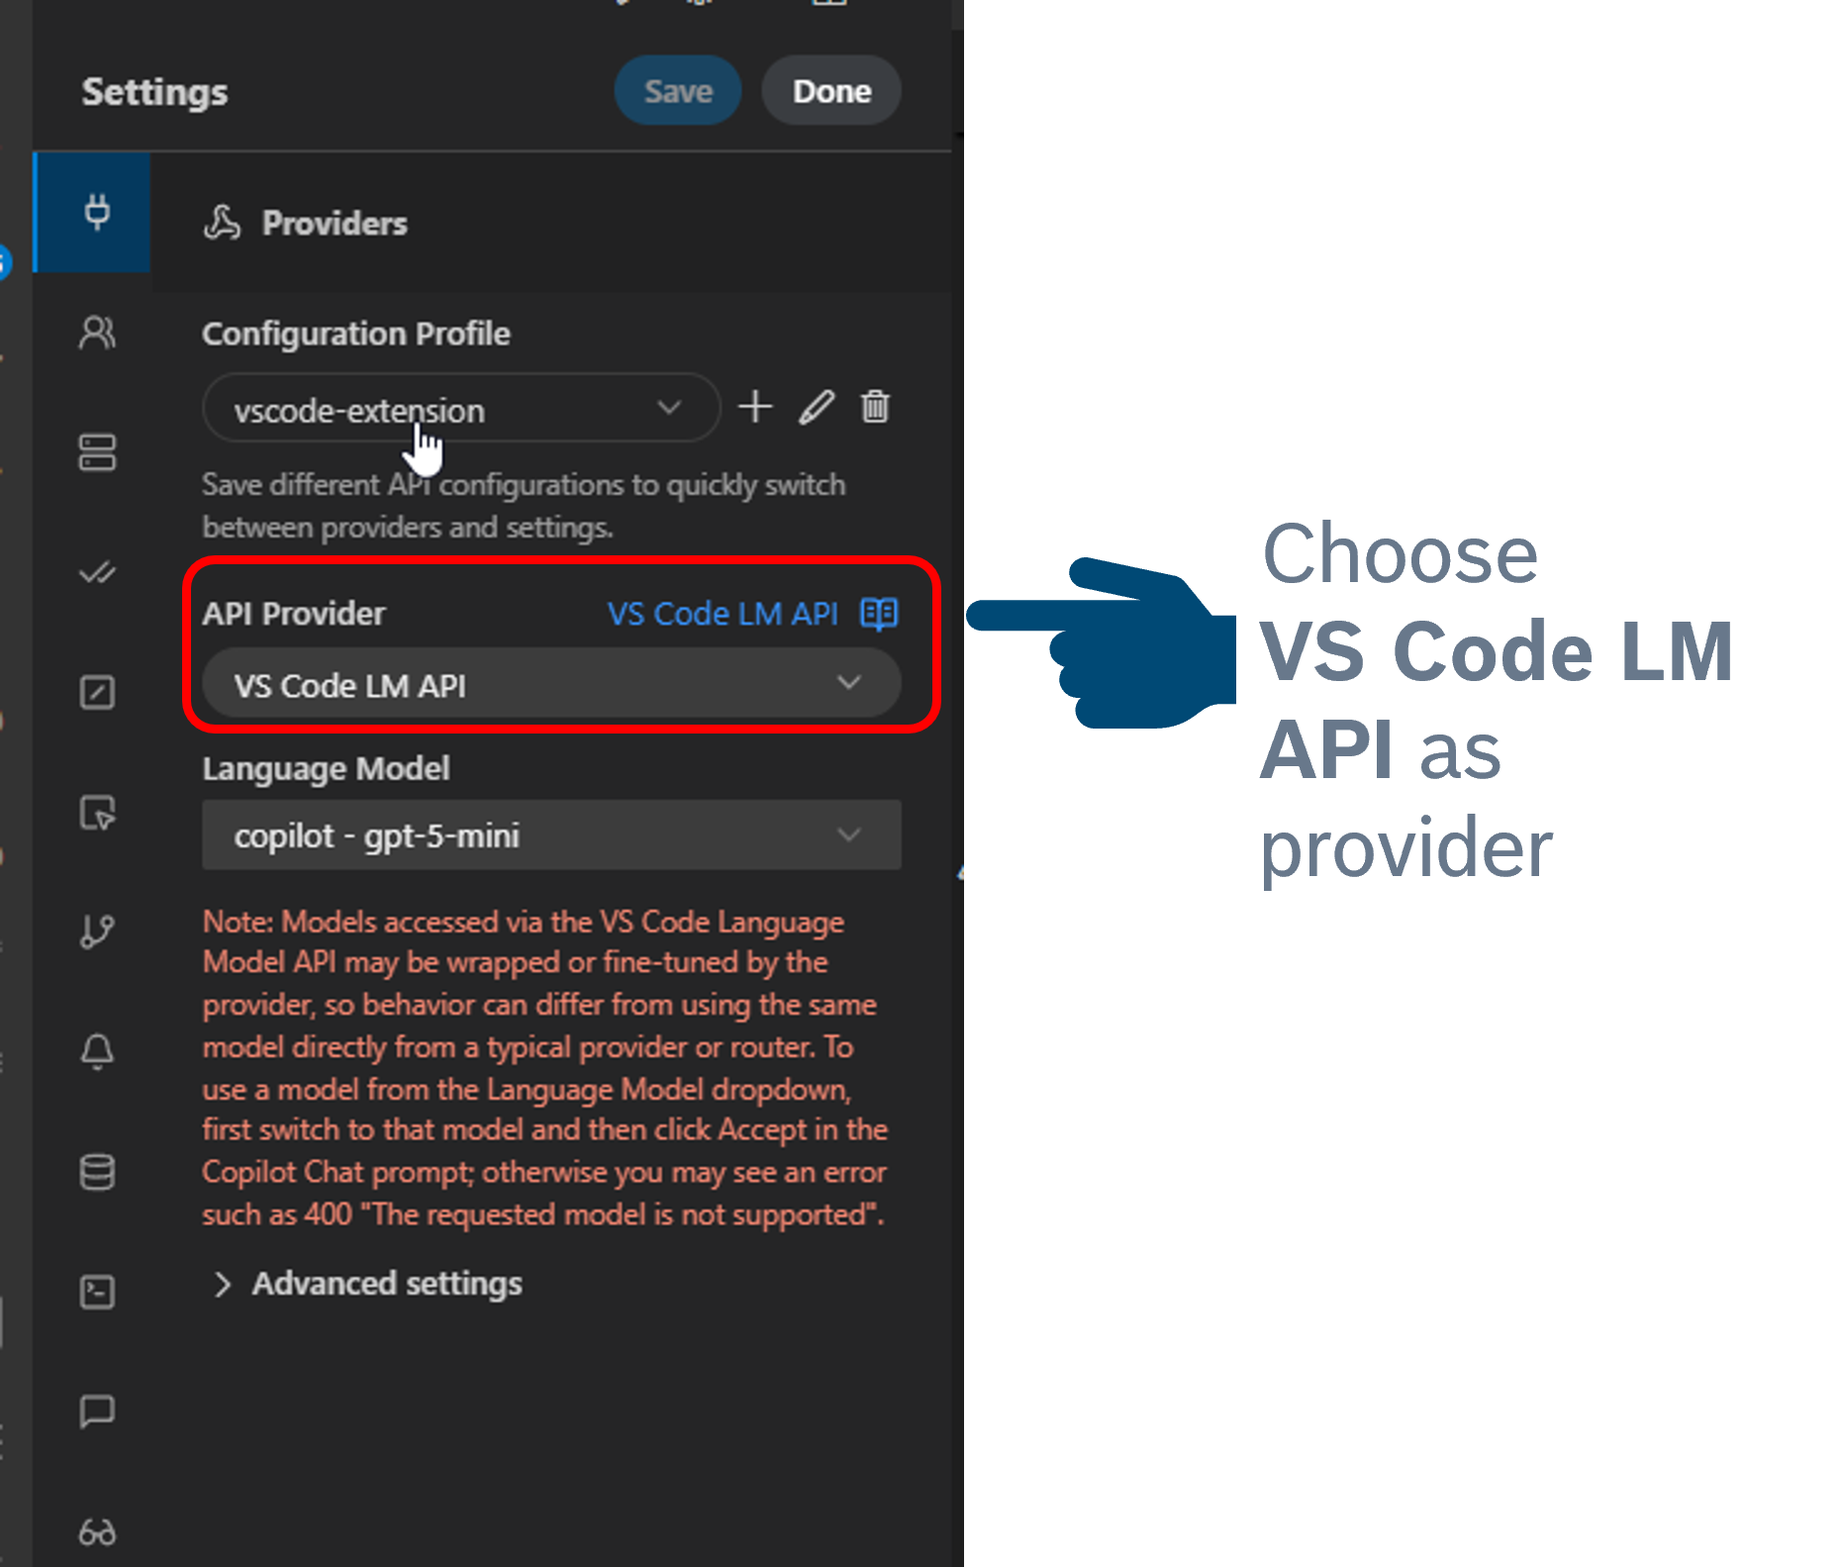
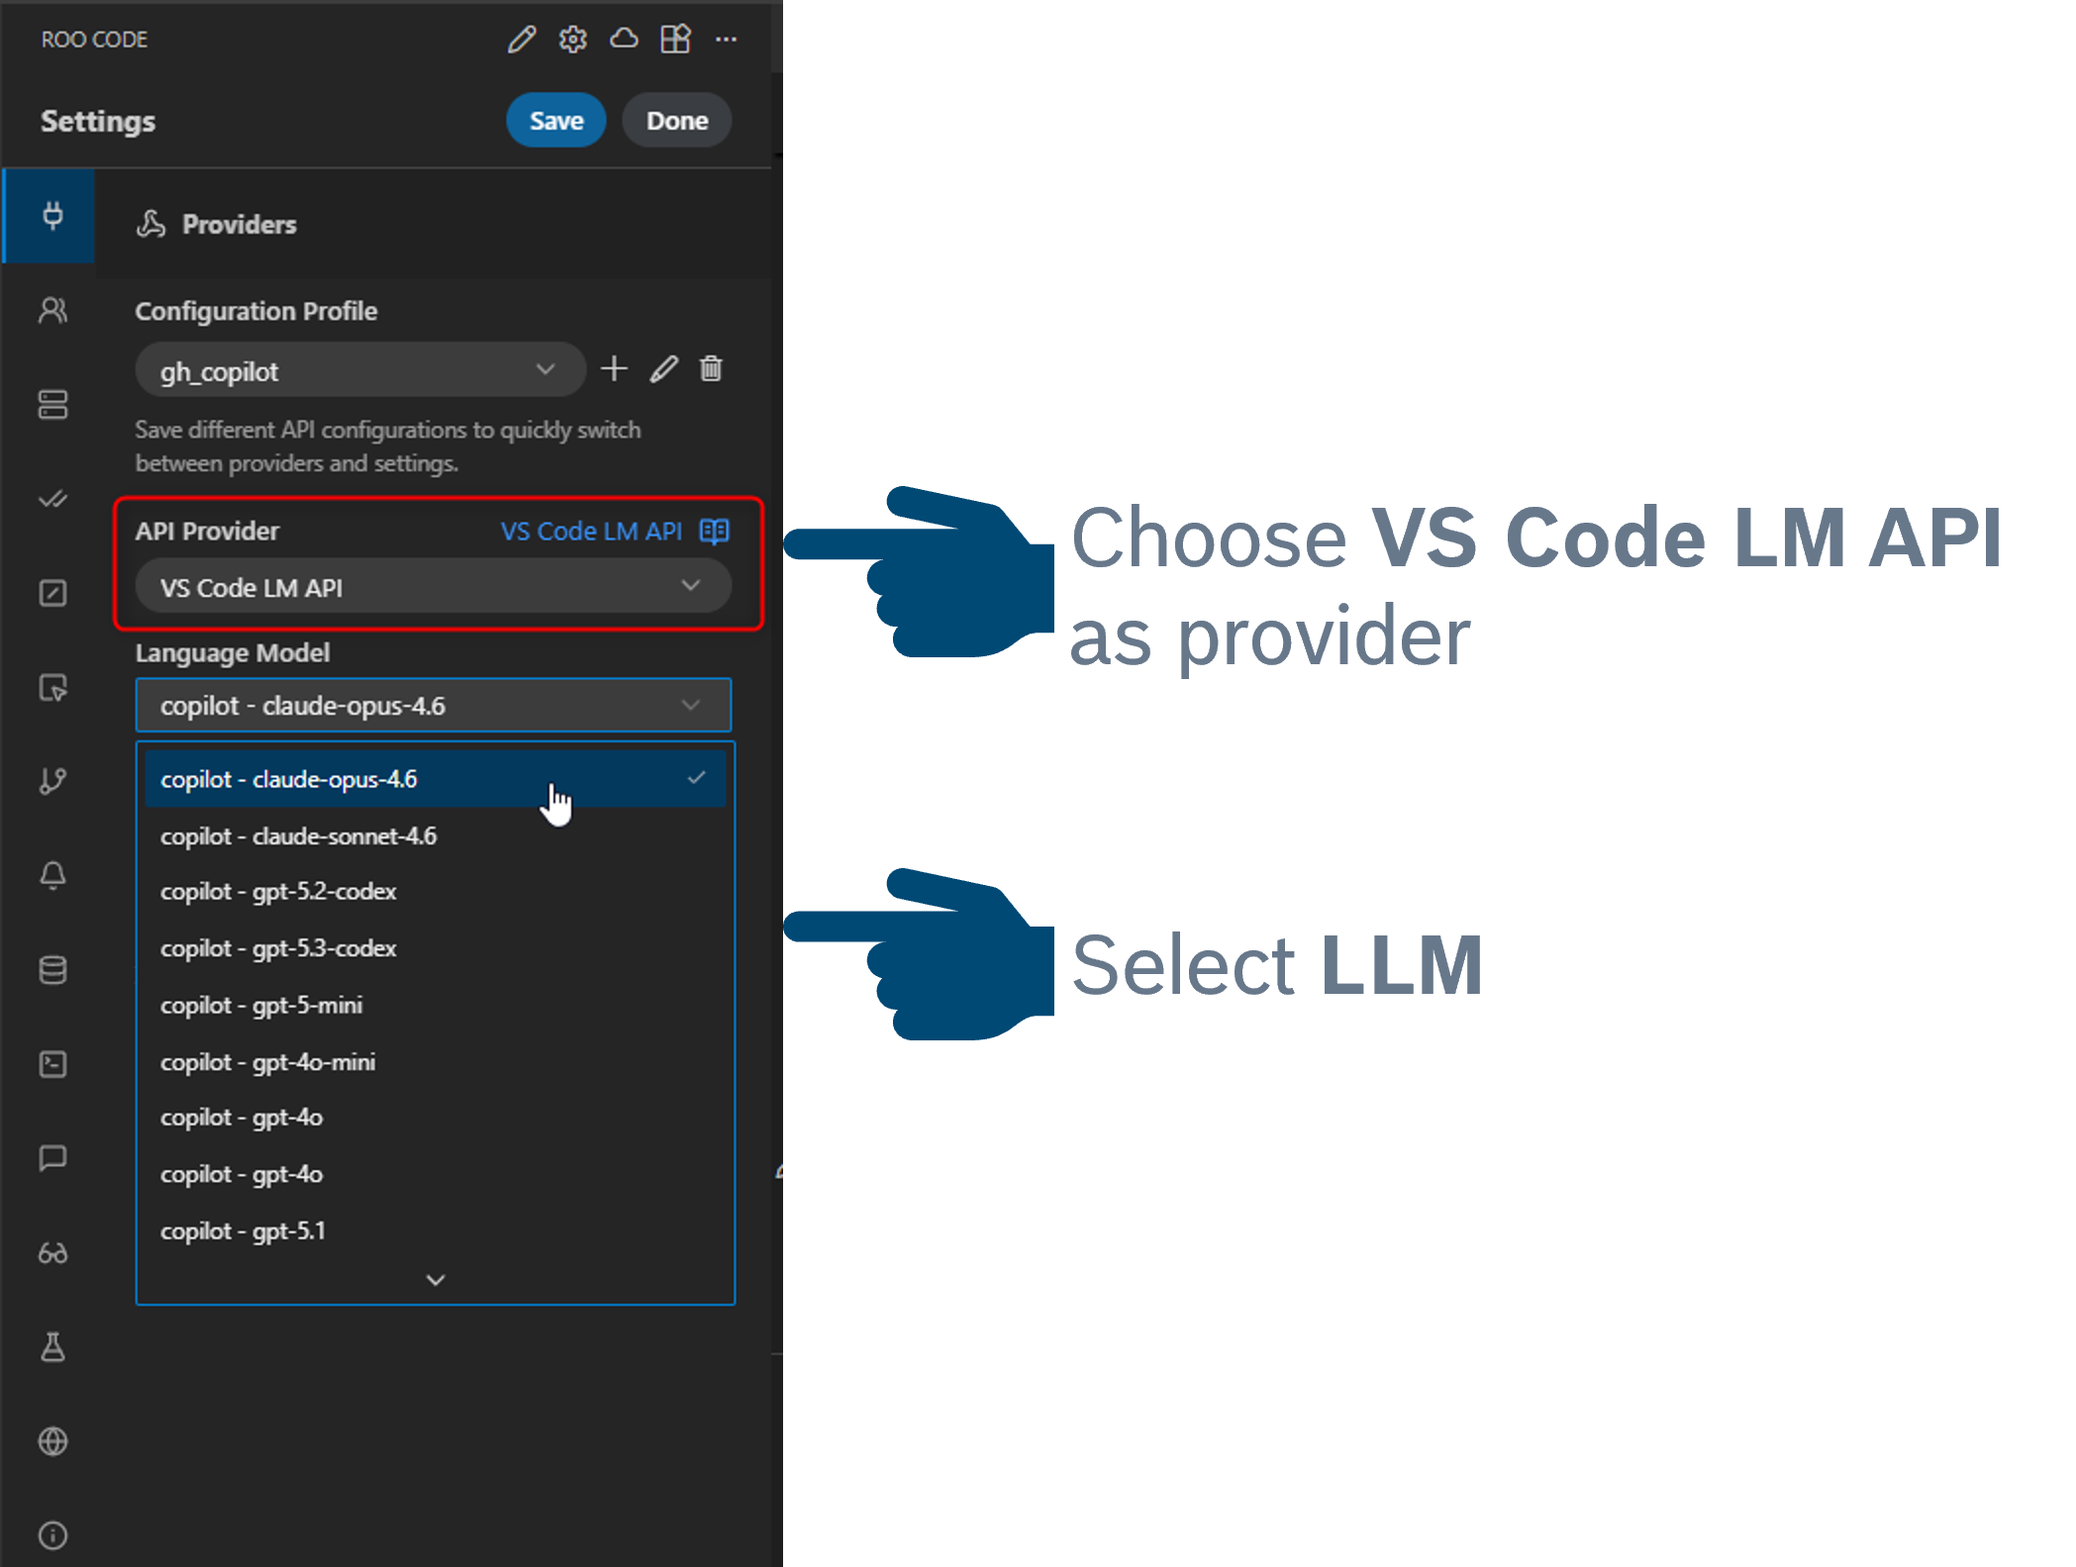
update RooCode document to add more detail about Profile and LLM configurations

diff --git a/book/include/roocode/configuration_bios.tex b/book/include/roocode/configuration_bios.tex
@@ -32,11 +32,116 @@ Steps to configure Roo Code Extension to use GitHub Copilot:
    \item In the \textbf{API Provider} option, select \textbf{VS Code LM API}
       as the provider.
    \item Choose the available model within the dropdown menu.
+\begin{boxhint}{The list of models may change over time}
+The list of LLM models may be changed dynamically based on the models supported
+by Bosch GitHub Copilot at the moment.
+\end{boxhint}
    \item Click \textbf{Done}.
 \end{enumerate}
 
 Refer to the images below for guidance:
 
-\includegraphics{./include/graphics/roocode/RooCodeUseLLMProviders.png}
+\begin{itemize}
+   \item Welcome screen for first time use:
 
-\includegraphics{./include/graphics/roocode/GitHubCopilotLLM.png}
+         \includegraphics{./include/graphics/roocode/GitHubCopilotLLM_GetStart.png}
+
+   \item Settings screen for already configured users:
+
+         \includegraphics{./include/graphics/roocode/GitHubCopilotLLM.png}
+
+\end{itemize}
+
+\section{Which LLM to Use}
+
+As configuration in previous chapters, Roo Code uses \textbf{Bosch GitHub Copilot}
+as its AI backend.
+
+Bosch GitHub Copilot provides access to a range of powerful LLMs, each with
+different strengths and optimal use cases.
+
+Simply pick the model that fits your task best — all models are covered by the
+Bosch subscription, so just focus on choosing the right one for the job.
+
+\subsection{Available Models for Agentic Tasks}
+
+The following models are available via Bosch GitHub Copilot (\textbf{February 2026}),
+ordered by their suitability for agentic development:
+
+\begin{table}[h!]
+\centering
+\begin{tabular}{lllp{5.5cm}}
+   \toprule
+   \textbf{Model} & \textbf{Provider} & \textbf{Speed} & \textbf{Best for} \\
+   \midrule
+   Claude Opus 4.6           & Anthropic & Medium    & Most complex agentic tasks, deep reasoning, architecture \\
+   Claude Opus 4.5           & Anthropic & Medium    & Complex agentic tasks, strong reasoning \\
+   Claude Opus 4.6 (fast)    & Anthropic & Fast      & High-accuracy agentic tasks at faster response times \\
+   GPT-5.3-Codex             & OpenAI    & Fast      & Cutting-edge code-focused agentic tasks, autonomous editing \\
+   GPT-5.2                   & OpenAI    & Fast      & Agentic tasks, excellent tool use and long context \\
+   GPT-5.2-Codex             & OpenAI    & Fast      & Code-focused agentic tasks, autonomous file editing \\
+   GPT-5.1                   & OpenAI    & Fast      & Agentic tasks, strong reasoning and tool use \\
+   GPT-5.1-Codex             & OpenAI    & Fast      & Code generation, autonomous agentic file editing \\
+   GPT-5.1-Codex-Max         & OpenAI    & Fast      & Code generation and multi-file refactoring \\
+   Claude Sonnet 4.6         & Anthropic & Fast      & Everyday agentic tasks, strong accuracy at high speed \\
+   Claude Sonnet 4.5         & Anthropic & Fast      & Everyday agentic tasks \\
+   Gemini 3.1 Pro            & Google    & Fast      & Agentic tasks, very large context windows \\
+   Gemini 3 Pro              & Google    & Fast      & Agentic tasks, large context windows \\
+   Grok Code Fast 1          & xAI       & Very fast & Code-focused tasks, fast iteration \\
+   \midrule
+   Claude Haiku 4.5          & Anthropic & Very fast & \textit{Simple tasks only — not recommended for agentic use} \\
+   GPT-5 mini                & OpenAI    & Very fast & \textit{Simple tasks only — not recommended for agentic use} \\
+   GPT-4.1                   & OpenAI    & Very fast & \textit{Simple tasks only — not recommended for agentic use} \\
+   \bottomrule
+\end{tabular}
+\caption{Bosch GitHub Copilot available models (February 2026), ordered by agentic suitability.}
+\label{tab:copilot-models}
+\end{table}
+
+\subsection{Recommended Model Selection}
+
+\begin{itemize}
+   \item \textbf{Maximum Accuracy} (complex architecture, deep multi-file
+      reasoning, autonomous debugging across large codebases):
+      Use \textit{Claude Opus 4.6} — the highest-accuracy model available
+      via Copilot (76.8\% on SWE-bench Verified). \textit{Claude Opus 4.5}
+      is a close alternative.
+   \item \textbf{High Accuracy + Speed} (demanding agentic tasks where response
+      time matters):
+      Use \textit{Claude Opus 4.6 (fast)} or \textit{GPT-5.3-Codex} —
+      near-Opus accuracy at significantly faster response times.
+   \item \textbf{Best Speed + Accuracy} (everyday agentic tasks, feature
+      implementation, test generation, refactoring):
+      Use \textit{GPT-5.2}, \textit{GPT-5.2-Codex}, \textit{GPT-5.1-Codex},
+      or \textit{Claude Sonnet 4.6} — these deliver strong accuracy
+      at fast response times.
+   \item \textbf{Simple / Read-only Tasks} (asking questions, explaining code,
+      quick lookups): \textit{GPT-4.1} or \textit{GPT-5 mini} respond
+      instantly and are sufficient for non-agentic interactions.
+\end{itemize}
+
+\begin{boxwarning}{Do not use mini or lightweight models for agentic tasks}
+Models such as \rcode{GPT-5 mini}, \rcode{GPT-4.1}, and
+\rcode{Claude Haiku 4.5} are optimized for instant responses on simple
+queries — \textbf{not} for the complex multi-step reasoning, multi-file
+editing, and tool use that agentic development requires.
+Use them only for simple, read-only interactions.
+\end{boxwarning}
+
+\begin{boxhint}{The model list changes over time}
+GitHub Copilot regularly adds, updates, and retires models.
+Always check the current list in the model dropdown within VS Code,
+or refer to the official documentation:
+\href{https://docs.github.com/en/copilot/using-github-copilot/ai-models/supported-ai-models-in-copilot}
+{Supported AI models in GitHub Copilot}.
+\end{boxhint}
+
+\begin{boxhint}{Not sure which model to pick? Ask an AI assistant}
+The ranking of models evolves as new versions are released.
+Use the following prompt with any AI assistant to get an up-to-date
+recommendation specifically for GitHub Copilot:
+
+\medskip
+\textit{"Which models available in GitHub Copilot are particularly suitable
+for agentic software development? Please provide a ranking."}
+\end{boxhint}

diff --git a/book/include/roocode/configuration_oss.tex b/book/include/roocode/configuration_oss.tex
@@ -62,7 +62,7 @@ Running local models requires significant RAM/GPU resources.
       \item Download and install Ollama from
          \href{https://ollama.com/download}{Download Ollama}
       \item Use Ollama CLI to pull a coding model:
-         \texttt{ollama pull deepseek-v3.1} or \texttt{ollama pull qwen3-coder}.
+         \rcode{ollama pull deepseek-v3.1} or \rcode{ollama pull qwen3-coder}.
          You can find other models provided by Ollama at
          \href{https://ollama.com/library}{Ollama Library}.
       \item Ensure Ollama and pulled models are running locally on your machine.
@@ -81,7 +81,7 @@ Steps to configure Roo Code with \textbf{Ollama}:
          Or click the \textbf{Settings (gear icon)} at the top of the Roo Code panel (Already configured).
    \item In the \textbf{API Provider} option, select \textbf{Ollama}
       as the provider.
-   \item Ensure the Base URL is set (usually \texttt{http://localhost:11434}).
+   \item Ensure the Base URL is set (usually \rcode{http://localhost:11434}).
    \item Choose the local model you pulled earlier.
    \item Click \textbf{Done}.
 \end{enumerate}
@@ -119,3 +119,81 @@ Steps to configure Roo Code with \textbf{GitHub}:
 Refer to the image below for guidance:
 
 \includegraphics{./include/graphics/roocode/GitHubCopilotLLM.png}
+
+\section{Which LLM to Use}
+
+Choosing the right LLM is \textbf{crucial} when working with Roo Code.
+Agentic software development — where the AI autonomously edits multiple files,
+executes terminal commands, reasons about test failures, and orchestrates complex
+tasks — is one of the most demanding use cases for any language model.
+
+\subsection{What Makes a Model Suitable for Agentic Development?}
+
+When choosing a model for Roo Code, prioritize models that score well on the
+following benchmarks:
+\begin{itemize}
+   \item \textbf{SWE-bench Verified:} Measures the ability to resolve
+      real-world GitHub issues autonomously — the closest benchmark to what
+      Roo Code does in practice.
+   \item \textbf{LiveCodeBench:} Evaluates coding performance on recent,
+      unseen problems, testing true generalization rather than memorization.
+   \item \textbf{Tool Use / Function Calling:} Essential for Roo Code to
+      reliably interact with your file system and terminal.
+   \item \textbf{Long Context Handling:} Large codebases require a model that
+      can maintain coherent reasoning over many thousands of tokens.
+\end{itemize}
+
+\subsection{LLM Selection Strategy}
+
+Based on current benchmarks (SWE-bench Verified and LiveBench, \textbf{February 2026}),
+the following models are leading for agentic software development:
+
+\begin{table}[h!]
+\centering
+\begin{tabular}{clllp{5cm}}
+   \toprule
+   \textbf{Rank} & \textbf{Model} & \textbf{Provider} &
+   \textbf{SWE-bench} & \textbf{Notes} \\
+   \midrule
+   1 & Claude 4.5 Opus  & Anthropic & 76.8\% & Top performer for complex agentic tasks \\
+   2 & Claude Opus 4.6  & Anthropic & 75.6\% & Strong reasoning and code generation \\
+   3 & GPT-5.2          & OpenAI    & 72.8\% & Excellent tool use and long-context handling \\
+   4 & Claude 4.5 Sonnet & Anthropic & 71.4\% & Best cost-to-performance ratio \\
+   5 & DeepSeek V3.2    & DeepSeek  & 70.0\% & Best open-weight option for local (Ollama) use \\
+   \midrule
+   \multicolumn{2}{l}{\textit{GPT-5 Mini (reference)}} & OpenAI & 56.2\% &
+      \textit{Mini model — not recommended} \\
+   \bottomrule
+\end{tabular}
+\caption{LLM ranking for agentic software development (SWE-bench Verified, February 2026)}
+\label{tab:llm-ranking}
+\end{table}
+
+\textbf{Recommended Strategy:}
+\begin{itemize}
+   \item \textbf{Complex Agentic Tasks} (refactoring, architecture, debugging,
+      multi-file generation): Use \textit{Claude 4.5 Opus}, \textit{Claude Opus 4.6},
+      or \textit{GPT-5.2}.
+   \item \textbf{Balanced Tasks} (feature implementation, test generation):
+      \textit{Claude 4.5 Sonnet} offers the best cost-to-capability balance.
+   \item \textbf{Private / Offline Tasks}: \textit{DeepSeek V3.2} via Ollama
+      is the strongest local option.
+\end{itemize}
+
+\begin{boxwarning}{Mini models are not suitable for agentic tasks}
+For reference, \rcode{GPT-5 Mini} scores only 56.2\% on SWE-bench Verified —
+more than 20 percentage points behind the top models.
+Mini models are optimized for speed and cost, not for the complex multi-step
+reasoning that agentic development requires.
+\end{boxwarning}
+
+\begin{boxhint}{The LLM landscape changes rapidly}
+New models are released frequently and rankings shift — the best model today
+may be superseded in just a few months.
+Rather than relying on a fixed recommendation in this document,
+ask an up-to-date AI assistant directly using the prompt below:
+
+\medskip
+\textit{"Which LLM models are particularly suitable for agentic software
+development? Please provide a ranking."}
+\end{boxhint}

diff --git a/book/include/roocode/ending_sections.tex b/book/include/roocode/ending_sections.tex
@@ -51,6 +51,110 @@ Roo Code uses specialized personas to optimize token usage and task accuracy.
       \end{itemize}
 \end{itemize}
 
+\section{Configuration Profile}
+
+Roo Code's \textbf{API Configuration Profiles} allow you to save and manage
+multiple named sets of LLM settings — each with its own provider, model,
+API key, and temperature.
+Instead of manually reconfiguring the extension every time you switch tasks,
+you simply switch profiles with a single click.
+
+\begin{boxhint}{Why use profiles?}
+Different tasks benefit from different models:
+\begin{itemize}
+   \item A \textbf{complex refactoring} task needs a powerful reasoning model
+      (e.g., Claude Sonnet — latest).
+   \item A \textbf{quick documentation update} may work well with a faster,
+      cheaper mid-tier model (e.g., DeepSeek-V3).
+   \item A \textbf{private, offline} task is best served by a local model
+      via Ollama.
+\end{itemize}
+Profiles let you pre-configure all these combinations and switch between
+them instantly.
+\end{boxhint}
+
+\subsection{Creating a New Profile}
+
+\begin{enumerate}
+   \item Click the \textbf{Roo Code icon} in the Activity Bar to open the panel.
+   \item Click the \textbf{Settings (gear icon)} at the top of the Roo Code panel.
+   \item In the settings panel, locate the \textbf{API Configuration Profile}
+      dropdown at the top.
+   \item Click the \textbf{profile name} field next to the dropdown and type a
+      descriptive name (e.g., \rcode{Claude-Agentic}, \rcode{Gemini-Docs},
+      \rcode{Ollama-Private}).
+   \item Click \textbf{Save as new profile}.
+   \item Configure the \textbf{API Provider}, \textbf{Model}, \textbf{API Key},
+      and optionally a custom \textbf{Temperature} for this profile.
+   \item Click \textbf{Done} to save.
+\end{enumerate}
+
+\includegraphics{./include/graphics/roocode/RooCodeProfileCreate.png}
+
+\subsection{Switching Between Profiles}
+
+Once multiple profiles are saved, you can switch between them in two ways:
+
+\begin{itemize}
+   \item \textbf{From the Settings panel:}
+      Open \textbf{Settings} (gear icon) and select the desired profile from
+      the \textbf{Configuration Profile} dropdown in the \textbf{Providers} section.
+
+      \includegraphics{./include/graphics/roocode/RooCodeProfileSwitch_Settings.png}
+
+   \item \textbf{From the Chat panel:}
+      A profile selector dropdown is available directly above the chat input,
+      allowing instant switching without leaving your current task.
+
+      \includegraphics{./include/graphics/roocode/RooCodeProfileSwitch_Chat.png}
+
+\end{itemize}
+
+\subsection{Assigning a Default Profile per Mode}
+
+Each Roo Code working mode (Code, Architect, Debug, Ask, Orchestrator) can
+have its \textbf{own default profile} assigned.
+When you switch modes, Roo Code automatically activates the corresponding
+profile.
+
+\begin{enumerate}
+   \item Open \textbf{Settings} (gear icon).
+   \item Navigate to the \textbf{Modes} section.
+   \item For each mode, select the desired profile from the
+      \textbf{API Configuration} dropdown.
+   \item Click \textbf{Done}.
+\end{enumerate}
+
+\includegraphics{./include/graphics/roocode/RooCodeProfilePerMode.png}
+
+\begin{boxhint}{Recommended Profile Setup}
+\begin{itemize}
+   \item \textbf{Code / Debug / Orchestrator modes} → assign your most capable
+      model profile (e.g., \rcode{Claude-Agentic}).
+      These modes perform complex multi-file edits and autonomous tool use.
+   \item \textbf{Architect / Ask modes} → a mid-tier or cheaper model profile
+      is usually sufficient, as these modes are read-only or design-focused.
+\end{itemize}
+\end{boxhint}
+
+\subsection{Profile Settings Overview}
+
+Each profile stores the following settings independently:
+
+\begin{itemize}
+   \item \textbf{API Provider:} The LLM service (Anthropic, OpenAI, Google
+      Gemini, Ollama, VS Code LM API, etc.).
+   \item \textbf{Model:} The specific model variant within the provider
+      (e.g., \rcode{claude-sonnet-4-5}, \rcode{gpt-4o}).
+   \item \textbf{API Key:} Stored securely per profile — useful when using
+      multiple provider accounts.
+   \item \textbf{Temperature:} Controls the randomness of the model's output.
+      Lower values (0.0-0.3) are recommended for code generation;
+      higher values (0.5-0.8) suit design brainstorming or documentation.
+   \item \textbf{Context Window / Max Tokens:} Advanced limits that can be
+      tuned per profile for cost control.
+\end{itemize}
+
 \section{Best Practices for Automation Engineers}
 \begin{itemize}
    \item \textbf{Context Management:}
